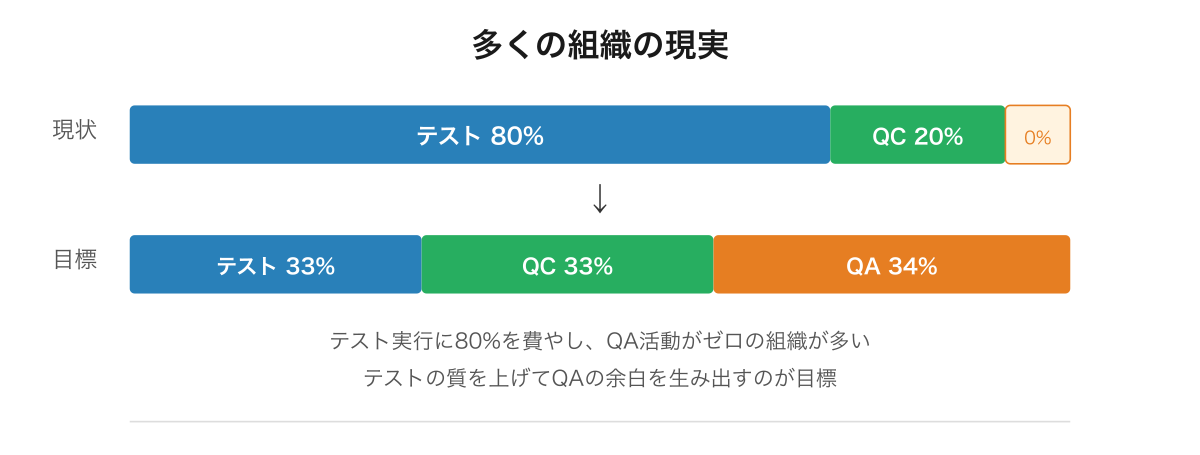
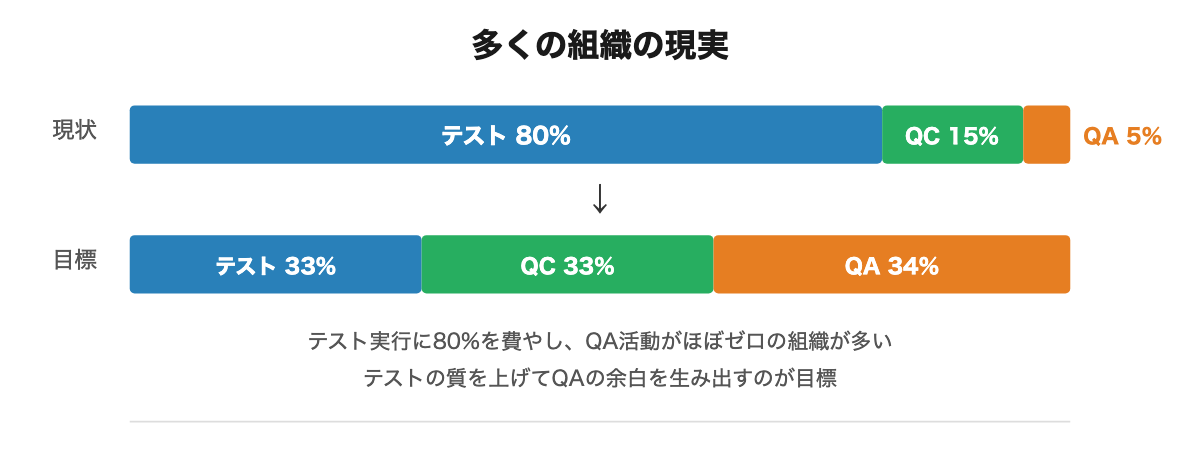
残課題を修正：章タイトルに第N章、Chapter 09の重複見出しとハブの記述、第1章と第2章の配分、負債名の統一、ピラミッドと3層モデルの配色

diff --git a/books/testing-not-equals-qa/chapter1.md b/books/testing-not-equals-qa/chapter1.md
@@ -1,5 +1,5 @@
 ---
-title: "🎓 「QA＝テスト」を卒業する日"
+title: "🎓 第1章 「QA＝テスト」を卒業する日"
 ---
 
 :::message
@@ -541,7 +541,7 @@ QAはQCを含み、QCはテストを含む。テストはQAの一部であって
 ![多くの組織の現実](/images/books/testing-not-equals-qa/fig_01_reality_bar.png)
 
 
-テスト実行が活動の大部分を占め、バグ修正後の確認テスト（QC）が残りを埋め、QA活動はゼロ。この配分を意識するだけでも、「何が足りないのか」が見えてくる。
+テスト実行が活動の大部分を占め、バグ修正後の確認テスト（QC）が残りを埋め、QA活動はほぼゼロ。この配分を意識するだけでも、「何が足りないのか」が見えてくる。
 
 目指したいのは、テスト実行を効率化してQAに使える時間を増やすこと。テストの量を減らすのではなく、テストの質を上げてQAの余白を生み出す。[第5章](/93ch/books/testing-not-equals-qa/viewer/chapter5_1)でその具体的なやり方を紹介する。
 

diff --git a/books/testing-not-equals-qa/chapter5_2.md b/books/testing-not-equals-qa/chapter5_2.md
@@ -1,5 +1,5 @@
 ---
-title: "🧪 テスト戦略とテスト設計（2）── 品質サイクル"
+title: "🧪 第5章 テスト戦略とテスト設計（2）── 品質サイクル"
 ---
 
 ## 5-2. テスト観点を軸にした品質サイクル
@@ -313,10 +313,7 @@ After（4ヶ月後）: 新サービス追加時に「連携カタログにどの
 | バグトリアージ | バグがカタログのどの観点に対応するかを記録 | バグの傾向分析が観点単位でできる |
 
 
-カタログは品質サイクルの「ハブ」だと説明した。ハブが他の活動と接続されるほど、品質保証活動全体の効率が上がる。
-
-**テスト観点カタログが接続しているときの流れ**
-
+カタログは2つのループの交差点、つまり品質サイクルの「ハブ」だ。ハブが他の活動と接続されるほど、品質保証活動全体の効率が上がる。
 
 **品質サイクル接続フロー**
 

diff --git a/books/testing-not-equals-qa/chapter5_3.md b/books/testing-not-equals-qa/chapter5_3.md
@@ -1,5 +1,5 @@
 ---
-title: "🧪 テスト戦略とテスト設計（3）── AI時代のテスト設計"
+title: "🧪 第5章 テスト戦略とテスト設計（3）── AI時代のテスト設計"
 ---
 
 ## 5-3. AI時代のテスト設計: 「削る力」

diff --git a/books/testing-not-equals-qa/chapter3_2.md b/books/testing-not-equals-qa/chapter3_2.md
@@ -1,5 +1,5 @@
 ---
-title: "🗂 QA活動カタログ（2）── 中流・後工程・横断活動"
+title: "🗂 第3章 QA活動カタログ（2）── 中流・後工程・横断活動"
 ---
 
 ## 3-3. 中流で効く活動

diff --git a/books/testing-not-equals-qa/chapter3_3.md b/books/testing-not-equals-qa/chapter3_3.md
@@ -1,5 +1,5 @@
 ---
-title: "🗂 QA活動カタログ（3）── どこから始めるか"
+title: "🗂 第3章 QA活動カタログ（3）── どこから始めるか"
 ---
 
 ## 3-5. どこから始めるか

diff --git a/books/testing-not-equals-qa/appendix.md b/books/testing-not-equals-qa/appendix.md
@@ -1,5 +1,5 @@
 ---
-title: "📋 索引・テンプレート・チートシート・ロードマップ"
+title: "📋 付録 索引・テンプレート・チートシート・ロードマップ"
 ---
 
 ## A. 索引

diff --git a/books/testing-not-equals-qa/chapter5_1.md b/books/testing-not-equals-qa/chapter5_1.md
@@ -1,5 +1,5 @@
 ---
-title: "🧪 テスト戦略とテスト設計（1）── 戦略 vs 計画"
+title: "🧪 第5章 テスト戦略とテスト設計（1）── 戦略 vs 計画"
 ---
 
 :::message

diff --git a/books/testing-not-equals-qa/chapter3_1.md b/books/testing-not-equals-qa/chapter3_1.md
@@ -1,5 +1,5 @@
 ---
-title: "🗂 QA活動カタログ（1）── 全体像と上流活動"
+title: "🗂 第3章 QA活動カタログ（1）── 全体像と上流活動"
 ---
 
 :::message

diff --git a/books/testing-not-equals-qa/chapter2.md b/books/testing-not-equals-qa/chapter2.md
@@ -1,5 +1,5 @@
 ---
-title: "⚠ QA＝テストが組織にもたらす構造的負債"
+title: "⚠ 第2章 QA＝テストが組織にもたらす構造的負債"
 ---
 
 :::message

diff --git a/books/testing-not-equals-qa/chapter6.md b/books/testing-not-equals-qa/chapter6.md
@@ -1,5 +1,5 @@
 ---
-title: "🤖 AI時代こそ「QA≠テスト」が生死を分ける"
+title: "🤖 第6章 AI時代こそ「QA≠テスト」が生死を分ける"
 ---
 
 :::message

diff --git a/books/testing-not-equals-qa/chapter8_work.md b/books/testing-not-equals-qa/chapter8_work.md
@@ -1,5 +1,5 @@
 ---
-title: "✏ セルフコンサル・ワーク集"
+title: "✏ 第8章 セルフコンサル・ワーク集"
 ---
 
 :::message

diff --git a/books/testing-not-equals-qa/chapter4.md b/books/testing-not-equals-qa/chapter4.md
@@ -1,5 +1,5 @@
 ---
-title: "🎯 「うちの品質」を定義する"
+title: "🎯 第4章 「うちの品質」を定義する"
 ---
 
 :::message
